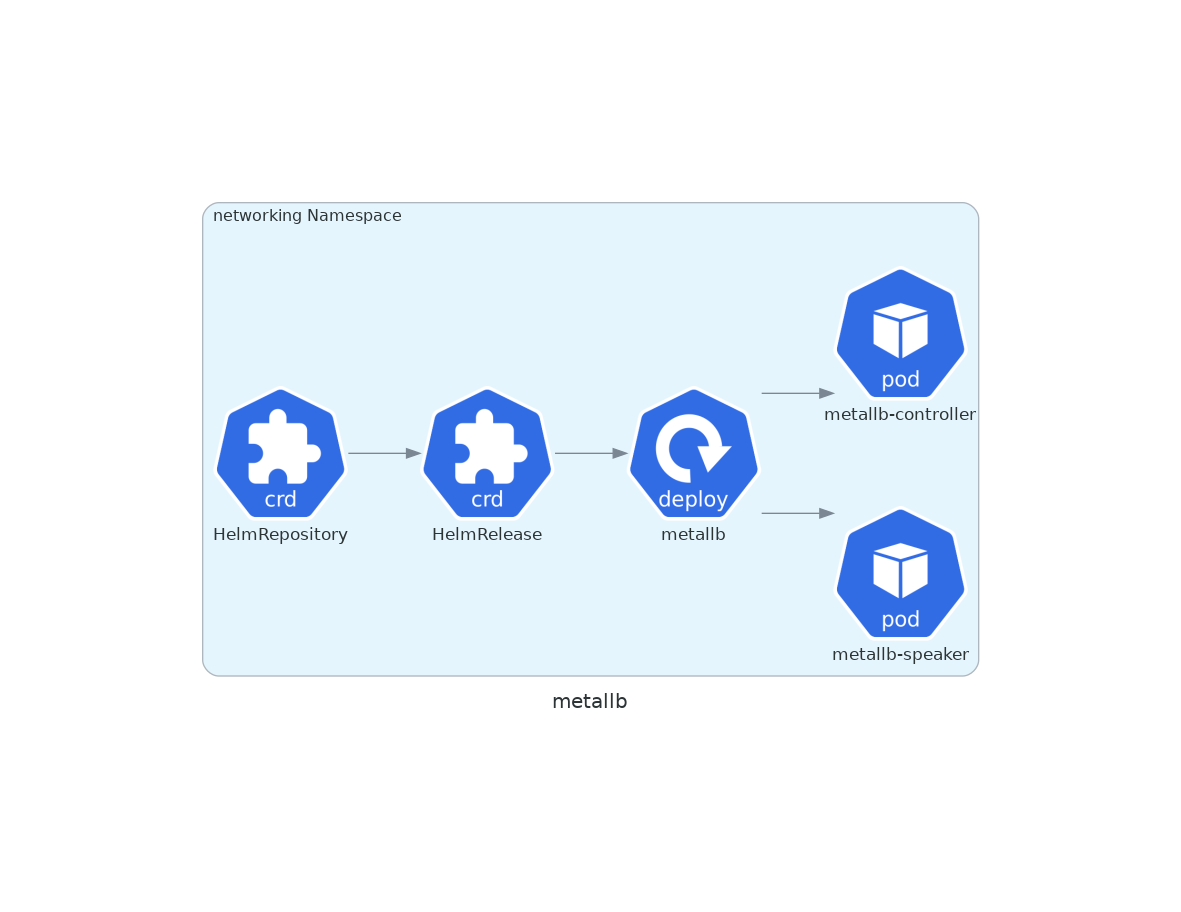
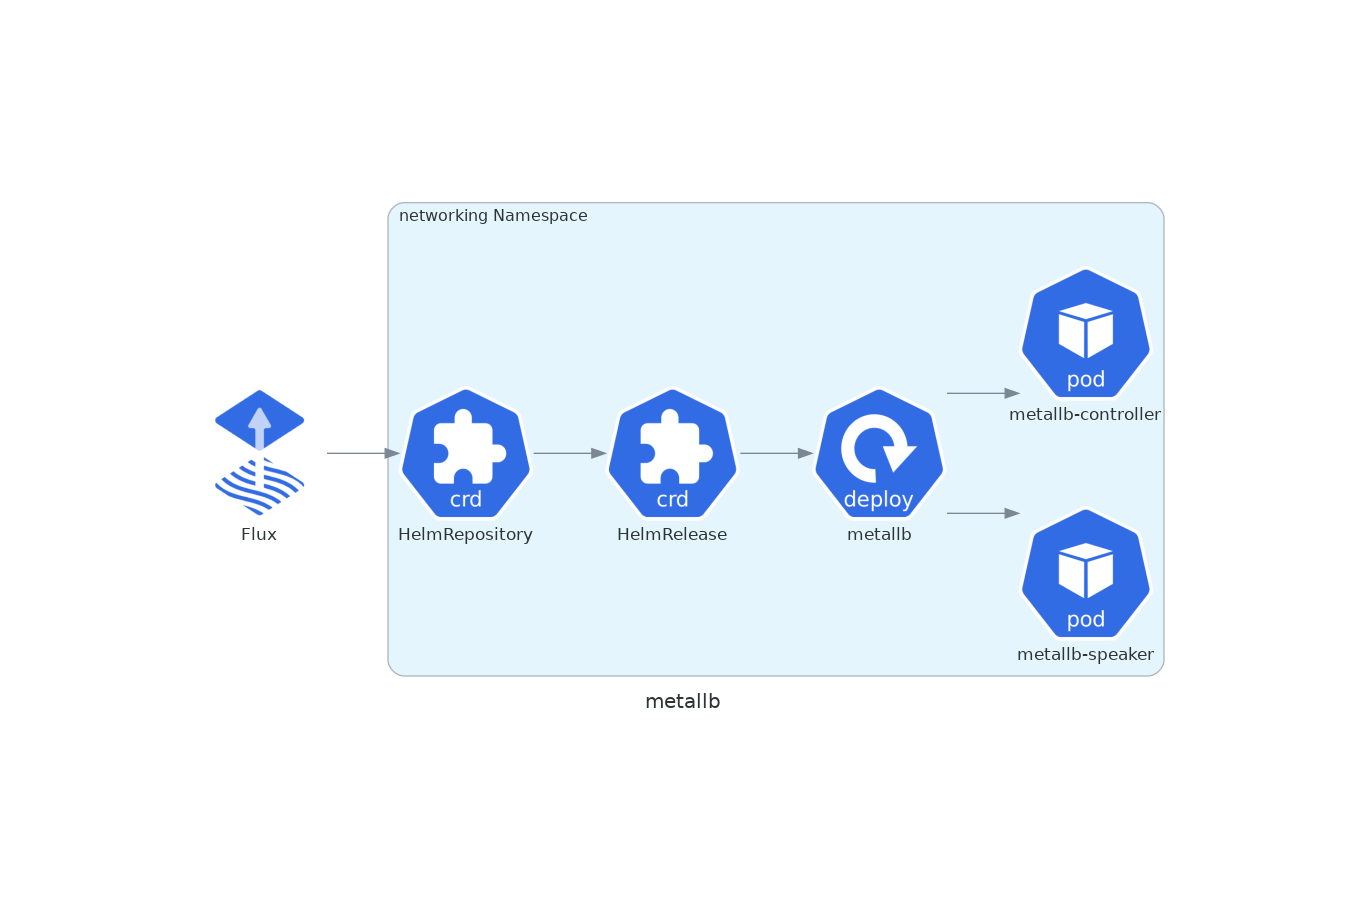
update diagrams

Changed region(s): [[0.1524, 0.2149, 0.8535, 0.7675], [0.4572, 0.7368, 0.5182, 0.7982]]

diff --git a/networking/pihole/diagram/diagram.py b/networking/pihole/diagram/diagram.py
@@ -3,8 +3,10 @@ from diagrams.k8s.compute import Deployment, Pod
 from diagrams.k8s.network import Ingress, Service
 from diagrams.k8s.others import CRD
 from diagrams.custom import Custom
+from diagrams.onprem.gitops import Flux
 
 with Diagram("pihole", show=False, direction="LR"):
+    flux = Flux("Flux")
     with Cluster("networking Namespace"):
         ingress = Ingress("pihole.tang.local\n10.0.0.230")
         service = Service("LoadBalancerIP\n10.0.0.231")
@@ -14,3 +16,4 @@ with Diagram("pihole", show=False, direction="LR"):
         deployment = Deployment("pihole")
 
         helmRepo >> helmRelease >> [ingress >> service, deployment] >>  pihole
+    flux >> helmRepo

diff --git a/networking/metallb/diagram/diagram.py b/networking/metallb/diagram/diagram.py
@@ -3,8 +3,10 @@ from diagrams.k8s.compute import Deployment, Pod
 from diagrams.k8s.network import Ingress, Service
 from diagrams.k8s.others import CRD
 from diagrams.custom import Custom
+from diagrams.onprem.gitops import Flux
 
 with Diagram("metallb", show=False, direction="LR"):
+    flux = Flux("Flux")
     with Cluster("networking Namespace"):
         helmRepo = CRD("HelmRepository")
         helmRelease = CRD("HelmRelease")
@@ -12,3 +14,5 @@ with Diagram("metallb", show=False, direction="LR"):
         deployment = Deployment("metallb")
 
         helmRepo >> helmRelease >> deployment >> metallb
+    flux >> helmRepo
+
